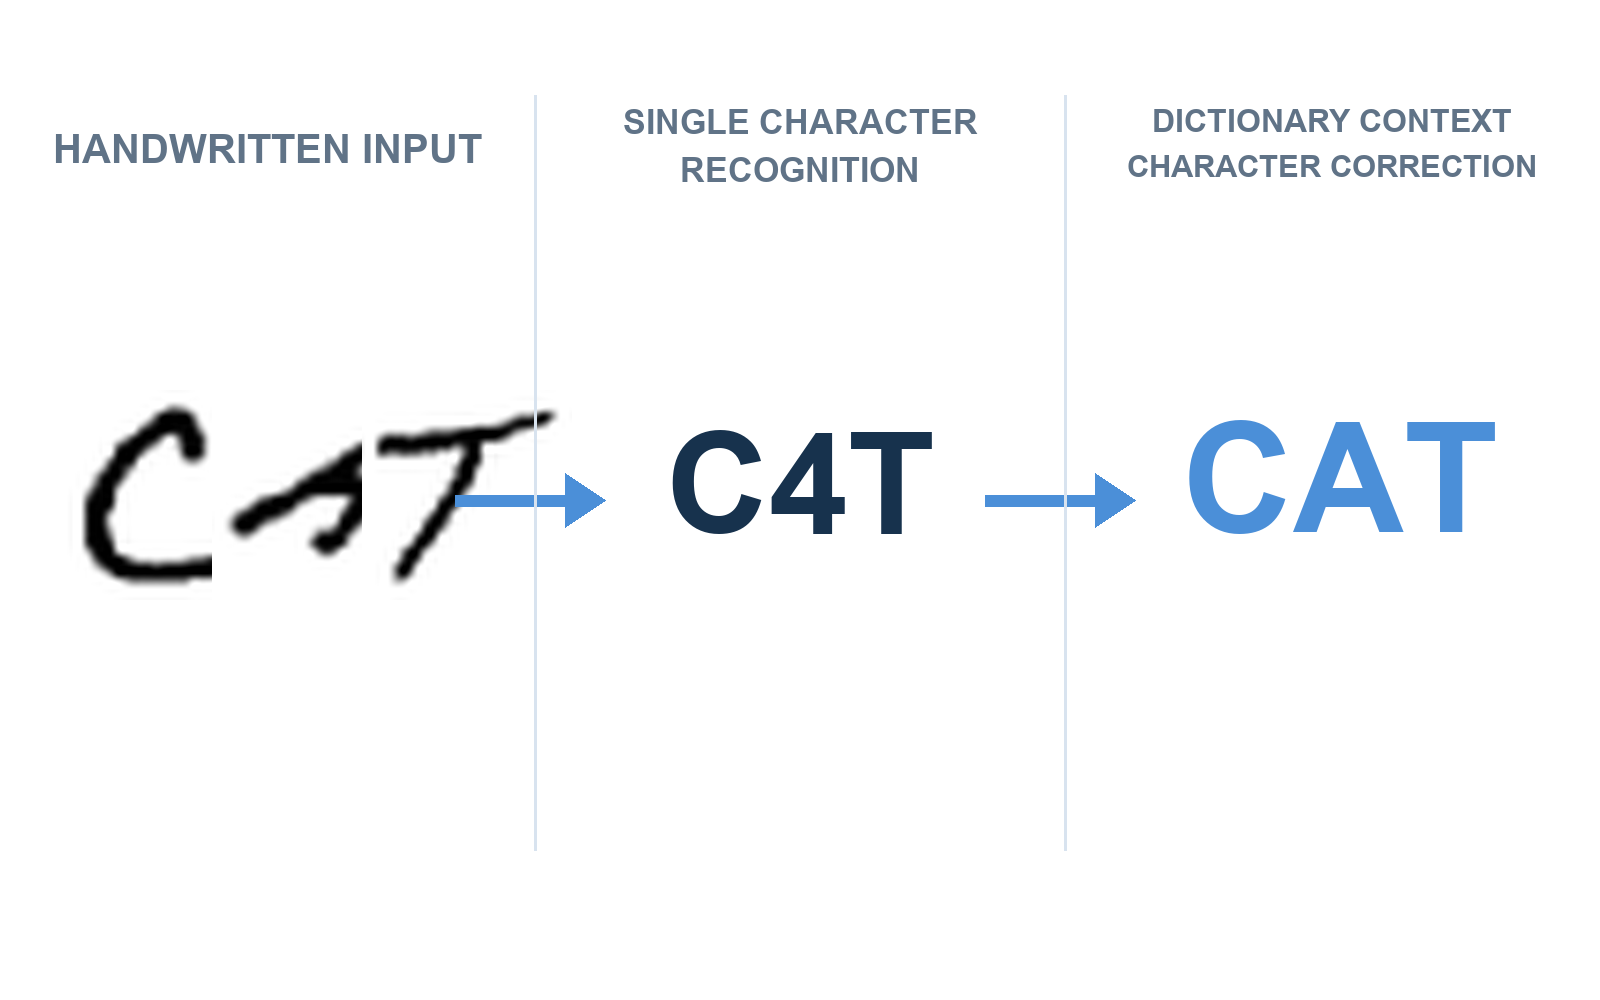
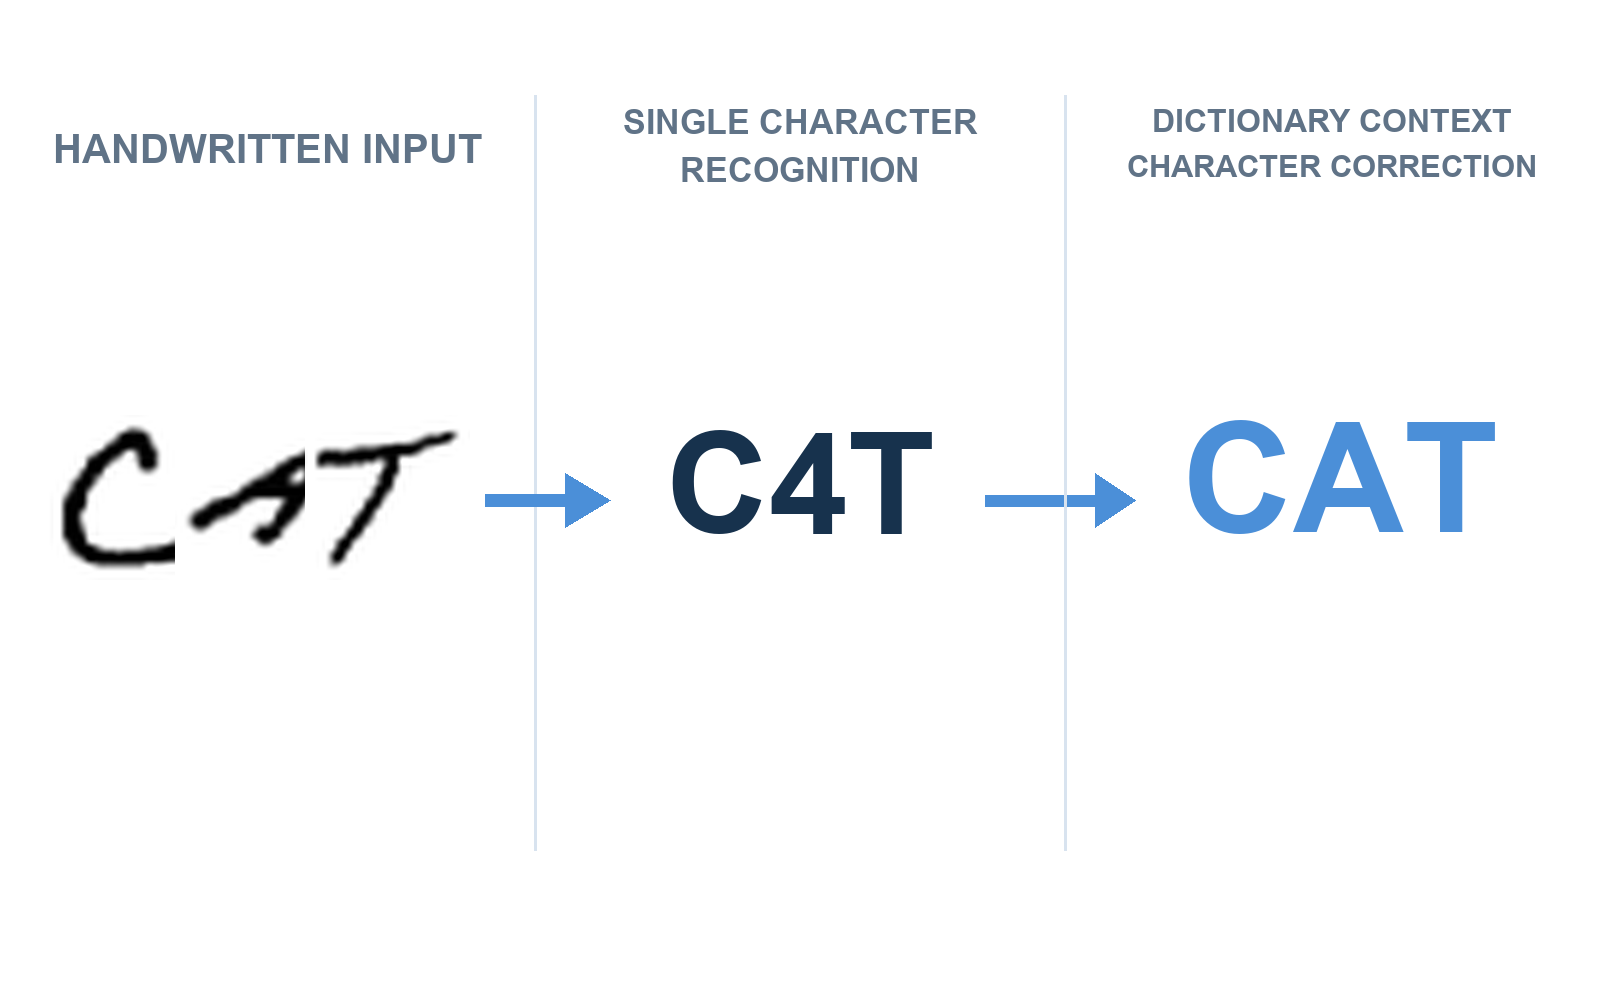
Resize OCR handwritten sample

Changed region(s): [[0.0312, 0.403, 0.3438, 0.589]]

diff --git a/index.html b/index.html
@@ -70,7 +70,7 @@
               aria-label="View the Optical Character Recognition project on GitHub"
             >
               <img
-                src="assets/projects/ocr-preview.png?v=6"
+                src="assets/projects/ocr-preview.png?v=7"
                 alt="Actual EMNIST handwriting samples spelling CAT, followed by the raw OCR result C4T and the context-corrected result CAT"
                 width="1600"
                 height="1000"
